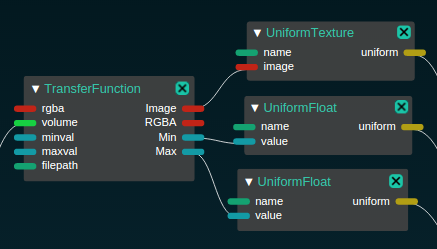
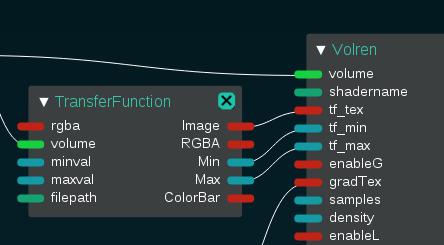
update doc

diff --git a/HIVE/ModuleSystem/examples/volren/doc/README.md b/HIVE/ModuleSystem/examples/volren/doc/README.md
@@ -20,25 +20,25 @@
 
 レンダリングのパラメータには以下のものがある. 
 
-| Type        | Name                | Default         | Description                                    |
-| ----------- |:-------------------:|:---------------:|:----------------------------------------------:|
-| sampler2D   | tf_tex              |    -            | Transfer Functionの色テーブル                   |
-| float       | tf_min              |    -            | ボリュームの濃度の最小値                         |
-| float       | tf_max              |   -             | ボリュームの濃度の最大値                         |
-| float       | u_enableGradientMap |  1              | Gradient Mapの有無 (0 or 1)                     |
-| sampler2D   | u_gradTex           | -               | Gradient Mapの色テーブル                         |
-| float       | u_enableLighting    | 1               | ライティングの有無 (0 or 1)                      |
-| vec4        | u_light             | (0, 0, 50, 5)   | 光源の位置と強さ (posX, posY, posZ, specular)    |
-| vec3        | u_attenuation       | (1, 0, 0)       | 光の減衰 (const, linear, quadratic)              |
-| vec3        | u_ambient           | (0.2, 0.2, 0.2) | 環境光成分 (R, G, B) [0, 1]                      |
-| vec3        | u_specular          | (1, 1, 1)       | 鏡面反射成分 (R, G, B) [0, 1]                    |
-| float       | u_samples           | 100             | レイマーチングのサンプル数                        |
-| vec3        | u_offset            | (0, 0, 0)       | ボリュームの位置のオフセット                      |
+| Type        | Unifrom変数名                | Nodeの入力名 |  Default         | Description                                    |
+| ----------- |:-------------------:|:---------------:|:---------------:|:----------------------------------------------:|
+| sampler2D   | tf_tex              | tf_tex          |    -            | Transfer Functionの色テーブル                   |
+| float       | tf_min              | tf_min          |    -            | ボリュームの濃度の最小値                         |
+| float       | tf_max              | tf_max          |   -             | ボリュームの濃度の最大値                         |
+| float       | u_enableGradientMap | enableG         |  1              | Gradient Mapの有無 (0 or 1)                     |
+| sampler2D   | u_gradTex           | gradTex         | -               | Gradient Mapの色テーブル                         |
+| float       | u_enableLighting    | enableL         | 1               | ライティングの有無 (0 or 1)                      |
+| vec4        | u_light             | light           | (0, 0, 50, 5)   | 光源の位置と強さ (posX, posY, posZ, specular)    |
+| vec3        | u_attenuation       | attenuation     | (1, 0, 0)       | 光の減衰 (const, linear, quadratic)              |
+| vec3        | u_ambient           | offset          | (0.2, 0.2, 0.2) | 環境光成分 (R, G, B) [0, 1]                      |
+| vec3        | u_specular          | specular        | (1, 1, 1)       | 鏡面反射成分 (R, G, B) [0, 1]                    |
+| float       | u_samples           | samples         | 100             | レイマーチングのサンプル数                        |
+| vec3        | u_offset            | offset          | (0, 0, 0)       | ボリュームの位置のオフセット                      |
 
 ### Transfer Function
 TransferFunctionノードにはVolume LoaderからVolumeDataを接続する. 
 また，filepathにlutファイルを指定することでTransfer Functionをインポートすることができる．lutファイルは後述するSaveColorMapノードで保存したものや，Visioからエクスポートしたものを用いることができる．  
-TransferFunctionノードからはImageをtf_texに, MinとMaxをtf_min, tf_maxのUniform変数に接続して使用する.   
+TransferFunctionノードからはImageをtf_texに, MinとMaxをtf_min, tf_maxに接続して使用する.   
 ![TF-Node](img/TFNode.png)   
 Transfer Functionではボリュームの濃度が0から1に正規化され, その値で色テーブルを参照し, 色をつける. 
 下の画像では濃度が高い値が赤, 低い値が青となっている.   
@@ -62,7 +62,7 @@ SaveColorMapノードを以下のように繋ぐことで，設定したTransfer
 
 GradientMapノードにはVolume LoaderからVolumeDataを接続する. 
 また，Transfer Functionと同様にして，lutファイルをインポートすることができる．   
-GradientMapノードからはImageをu_gradTexにUniform変数に接続して使用する. 
+GradientMapノードからはImageをgradTexに接続して使用する. 
 
 ![Gradient-Node](img/gradNode.png)  
 Gradient Mapではボリュームの濃度の勾配の大きさによって, 色テーブルを参照し, 得られた値をボリュームの透明度にかけ合わせる.   

diff --git a/doc/hive_module_volren.md b/doc/hive_module_volren.md
@@ -1,0 +1,73 @@
+# Hive Volrenモジュール
+
+Volrenモジュールを使ったレンダリングについて記載する。
+
+----
+
+## lib/Util/Volren(モジュール)
+
+ - Volrenモジュールは、VolumeModelを継承しており、RenderObjectとして扱うことができる。
+ - シェーダーは、volume_raymarch_rvr.frag に対応している。
+ - 初期値として、HIVE/ModuleSystem/examples/volren/doc/ReadMe.md に記載している、default値に対応している。
+ - 以下の関数により volume_raymarch_rvr.frag 用のパラメータを設定することができる。
+ 
+| 関数                         | Uniform変数名          | 引数                       |
+| ---------------------------- |:----------------------------:|:---------------------------:|
+| SetTransferFunctionTexture   | tf_tex                       |BufferImageData*             |
+| SetTransferFunctionMin       | tf_min                       |float                        |
+| SetTransferFunctionMax       | tf_max                       |float                        |
+| EnableGradientMap            | u_enableGradientMap          |bool                         |
+| SetGradientTexure            | u_gradTex                    |BufferImageData*             |
+| EnableLighting               | u_enableLighting             |bool                         |
+| SetLight                     | u_light                      |float, float, float          |
+| SetAttenuation               | u_attenuation                |float, float, float          |
+| SetAmbient                   | u_ambient                    |float, float, float          |
+| SetSpecular                  | u_specular                   |float, float, float          |
+| SetSamples                   | u_samples                    |int                          |
+| SetOffset                    | u_offset                     |float, float, float          |
+
+ - このモジュールを使用した場合、解放のために、renderを行った後に、以下のようにclearCache() を行う必要がある。
+
+```
+-- HIVE/hrender/test/render_volren.scnより一部抜粋。
+
+local volume = LoadModule("Volren")
+local volumedata = sph:VolumeData()
+volume:Create(volumedata)
+volume:SetShader('volume_raymarch_rvr.frag')
+
+local analy = LoadModule("Analyzer").VolumeAnalyzer()
+analy:Execute(volumedata)
+print(analy:MinX())
+print(analy:MaxX())
+
+volume:SetTransferFunctionTexture(tftex:ImageData())
+volume:SetTransferFunctionMin(analy:MinX())
+volume:SetTransferFunctionMax(analy:MaxX())
+volume:SetClampToEdge(true, true, true)
+volume:SetTextureWrapping('tf_tex', true, true, true) -- CLAMP_TO_EDGE wrap mode for transfer function texture.
+
+volume:EnableLighting(true);
+volume:SetLight(0.0, 0.0, 50.0, 5.0);
+volume:SetAttenuation(1.0, 0.0, 0.0);
+volume:SetAmbient(0.2, 0.2, 0.22);
+volume:SetSpecular(1.0, 1.0, 1.0);
+volume:SetSamples(100.0)
+volume:EnableGradientMap(false)
+volume:SetOffset(0.0, 0.0, 0.0);
+
+render {camera, volume}
+
+clearCache() --for volren
+
+
+## Volren(ノード)
+ - HIVE/ModuleSystem/examples/volren/doc/ReadMe.md を参照
+
+
+```
+    
+
+
+
+
